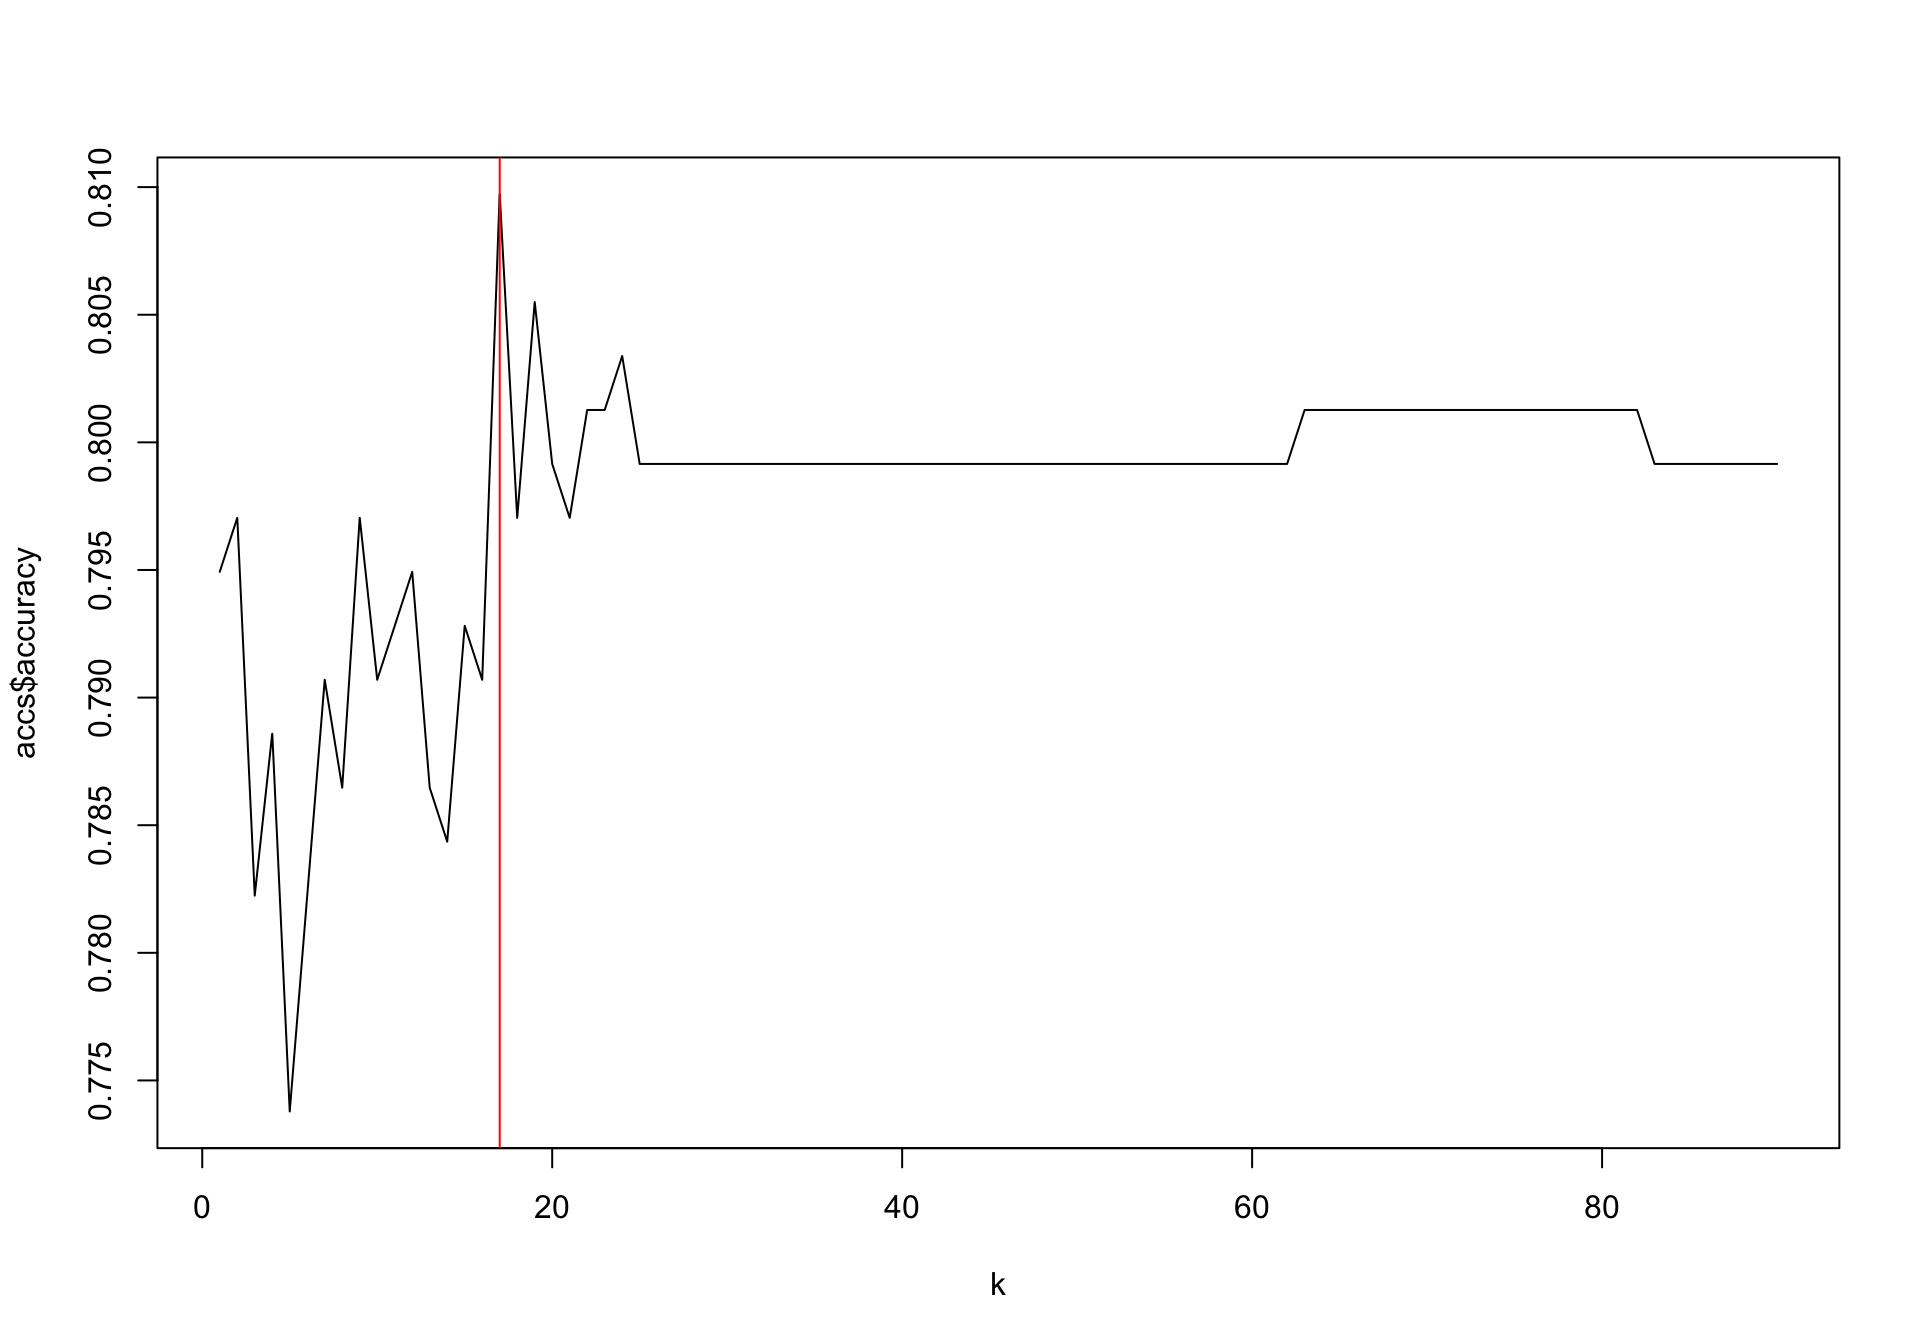
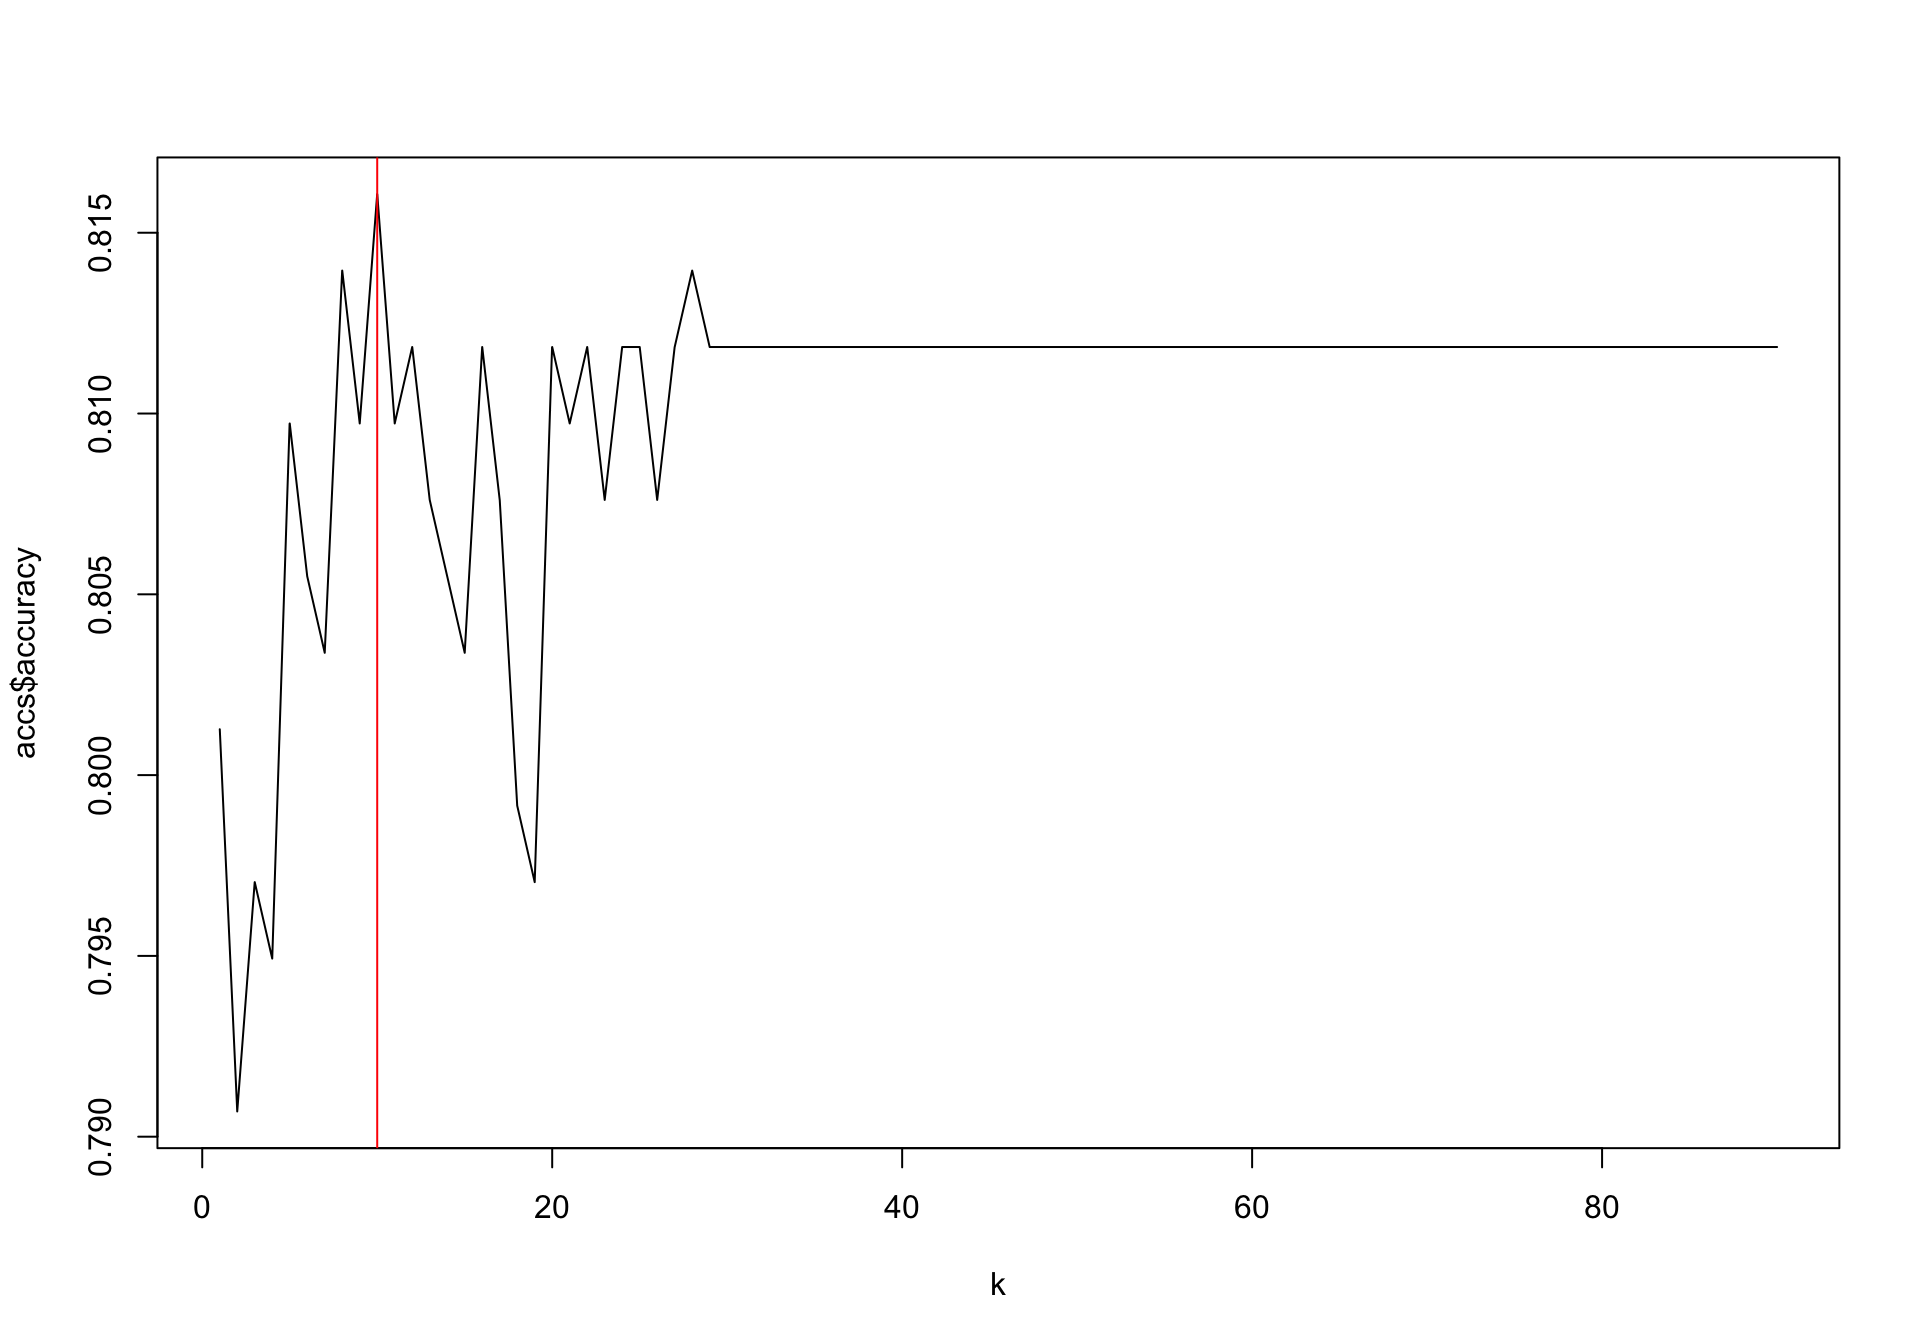
update

diff --git a/beersRMD.html b/beersRMD.html
@@ -17,7 +17,7 @@
 <script src="site_libs/header-attrs-2.7/header-attrs.js"></script>
 <script src="site_libs/jquery-1.11.3/jquery.min.js"></script>
 <meta name="viewport" content="width=device-width, initial-scale=1" />
-<link href="site_libs/bootstrap-3.3.5/css/bootstrap.min.css" rel="stylesheet" />
+<link href="site_libs/bootstrap-3.3.5/css/flatly.min.css" rel="stylesheet" />
 <script src="site_libs/bootstrap-3.3.5/js/bootstrap.min.js"></script>
 <script src="site_libs/bootstrap-3.3.5/shim/html5shiv.min.js"></script>
 <script src="site_libs/bootstrap-3.3.5/shim/respond.min.js"></script>
@@ -60,6 +60,7 @@ if (window.hljs) {
 
 
 
+<link rel="stylesheet" href="style.css" type="text/css" />
 
 
 
@@ -1768,7 +1769,7 @@ plot(accs$k,accs$accuracy, type = &quot;l&quot;, xlab = &quot;k&quot;)
 abline(v=accs$k[which.max(accs$accuracy)], col=&quot;red&quot;)</code></pre>
 <p><img src="beersRMD_files/figure-html/Implement%20KNN-1.png" width="960" /></p>
 <pre class="r"><code>accs$k[which.max(accs$accuracy)]</code></pre>
-<pre><code>## [1] 26</code></pre>
+<pre><code>## [1] 10</code></pre>
 <pre class="r"><code>splitPerc = .70
 trainIndices = sample(1:dim(IPA_ALE)[1],round(splitPerc * dim(IPA_ALE)[1]))
 train = IPA_ALE[trainIndices,]
@@ -1778,32 +1779,32 @@ classification = knn(IPA_ALE[,c(3,4)],IPA_ALE[,c(3,4)],IPA_ALE$Type,prob = TRUE,
 table(classification,IPA_ALE$Type)</code></pre>
 <pre><code>##               
 ## classification ALE IPA
-##            ALE 920 148
-##            IPA 100 410</code></pre>
+##            ALE 922 149
+##            IPA  98 409</code></pre>
 <pre class="r"><code>confusionMatrix(table(classification,IPA_ALE$Type))</code></pre>
 <pre><code>## Confusion Matrix and Statistics
 ## 
 ##               
 ## classification ALE IPA
-##            ALE 920 148
-##            IPA 100 410
+##            ALE 922 149
+##            IPA  98 409
 ##                                           
-##                Accuracy : 0.8428          
-##                  95% CI : (0.8239, 0.8605)
+##                Accuracy : 0.8435          
+##                  95% CI : (0.8246, 0.8611)
 ##     No Information Rate : 0.6464          
-##     P-Value [Acc &gt; NIR] : &lt; 2e-16         
+##     P-Value [Acc &gt; NIR] : &lt; 2.2e-16       
 ##                                           
-##                   Kappa : 0.6494          
+##                   Kappa : 0.6504          
 ##                                           
-##  Mcnemar&#39;s Test P-Value : 0.00284         
+##  Mcnemar&#39;s Test P-Value : 0.001466        
 ##                                           
-##             Sensitivity : 0.9020          
-##             Specificity : 0.7348          
-##          Pos Pred Value : 0.8614          
-##          Neg Pred Value : 0.8039          
+##             Sensitivity : 0.9039          
+##             Specificity : 0.7330          
+##          Pos Pred Value : 0.8609          
+##          Neg Pred Value : 0.8067          
 ##              Prevalence : 0.6464          
-##          Detection Rate : 0.5830          
-##    Detection Prevalence : 0.6768          
+##          Detection Rate : 0.5843          
+##    Detection Prevalence : 0.6787          
 ##       Balanced Accuracy : 0.8184          
 ##                                           
 ##        &#39;Positive&#39; Class : ALE             

diff --git a/about.html b/about.html
@@ -17,7 +17,7 @@
 <script src="site_libs/header-attrs-2.7/header-attrs.js"></script>
 <script src="site_libs/jquery-1.11.3/jquery.min.js"></script>
 <meta name="viewport" content="width=device-width, initial-scale=1" />
-<link href="site_libs/bootstrap-3.3.5/css/bootstrap.min.css" rel="stylesheet" />
+<link href="site_libs/bootstrap-3.3.5/css/flatly.min.css" rel="stylesheet" />
 <script src="site_libs/bootstrap-3.3.5/js/bootstrap.min.js"></script>
 <script src="site_libs/bootstrap-3.3.5/shim/html5shiv.min.js"></script>
 <script src="site_libs/bootstrap-3.3.5/shim/respond.min.js"></script>
@@ -58,6 +58,7 @@ if (window.hljs) {
 
 
 
+<link rel="stylesheet" href="style.css" type="text/css" />
 
 
 
@@ -262,15 +263,15 @@ $(document).ready(function () {
 <div id="header">
 
 
-<br>
+
 <h1 class="title toc-ignore">Bio</h1>
-<br>
+<h4 class="author">Kevin</h4>
+<h4 class="date">7/10/2021</h4>
 
 </div>
 
 
 <p>Loved when I used to play rugby in college <img src="rugby.PNG" /></p>
-
 <p>This is me and my lovely wife when we got engaged</p>
 <p><img src="wifey.PNG" /></p>
 <p>Cherish moments when I get to take my son to Cabelas</p>

diff --git a/index.html b/index.html
@@ -17,7 +17,7 @@
 <script src="site_libs/header-attrs-2.7/header-attrs.js"></script>
 <script src="site_libs/jquery-1.11.3/jquery.min.js"></script>
 <meta name="viewport" content="width=device-width, initial-scale=1" />
-<link href="site_libs/bootstrap-3.3.5/css/bootstrap.min.css" rel="stylesheet" />
+<link href="site_libs/bootstrap-3.3.5/css/flatly.min.css" rel="stylesheet" />
 <script src="site_libs/bootstrap-3.3.5/js/bootstrap.min.js"></script>
 <script src="site_libs/bootstrap-3.3.5/shim/html5shiv.min.js"></script>
 <script src="site_libs/bootstrap-3.3.5/shim/respond.min.js"></script>
@@ -58,6 +58,7 @@ if (window.hljs) {
 
 
 
+<link rel="stylesheet" href="style.css" type="text/css" />
 
 
 
